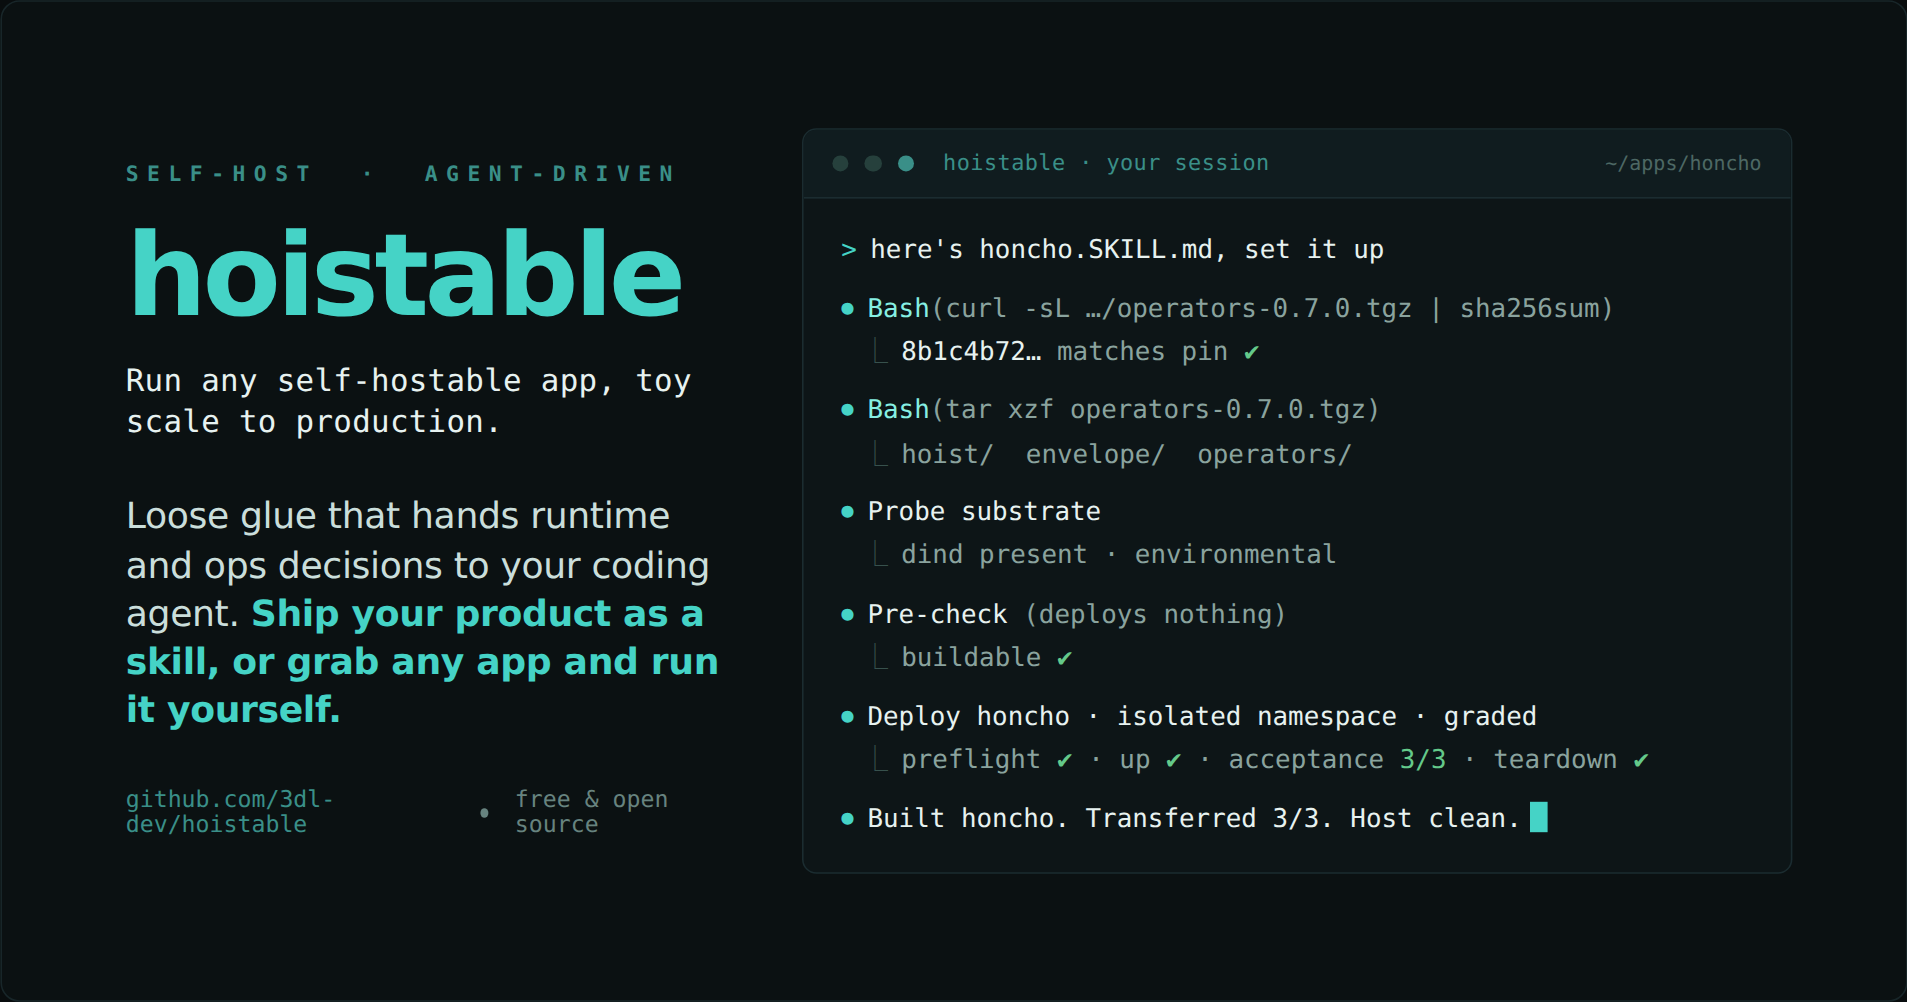
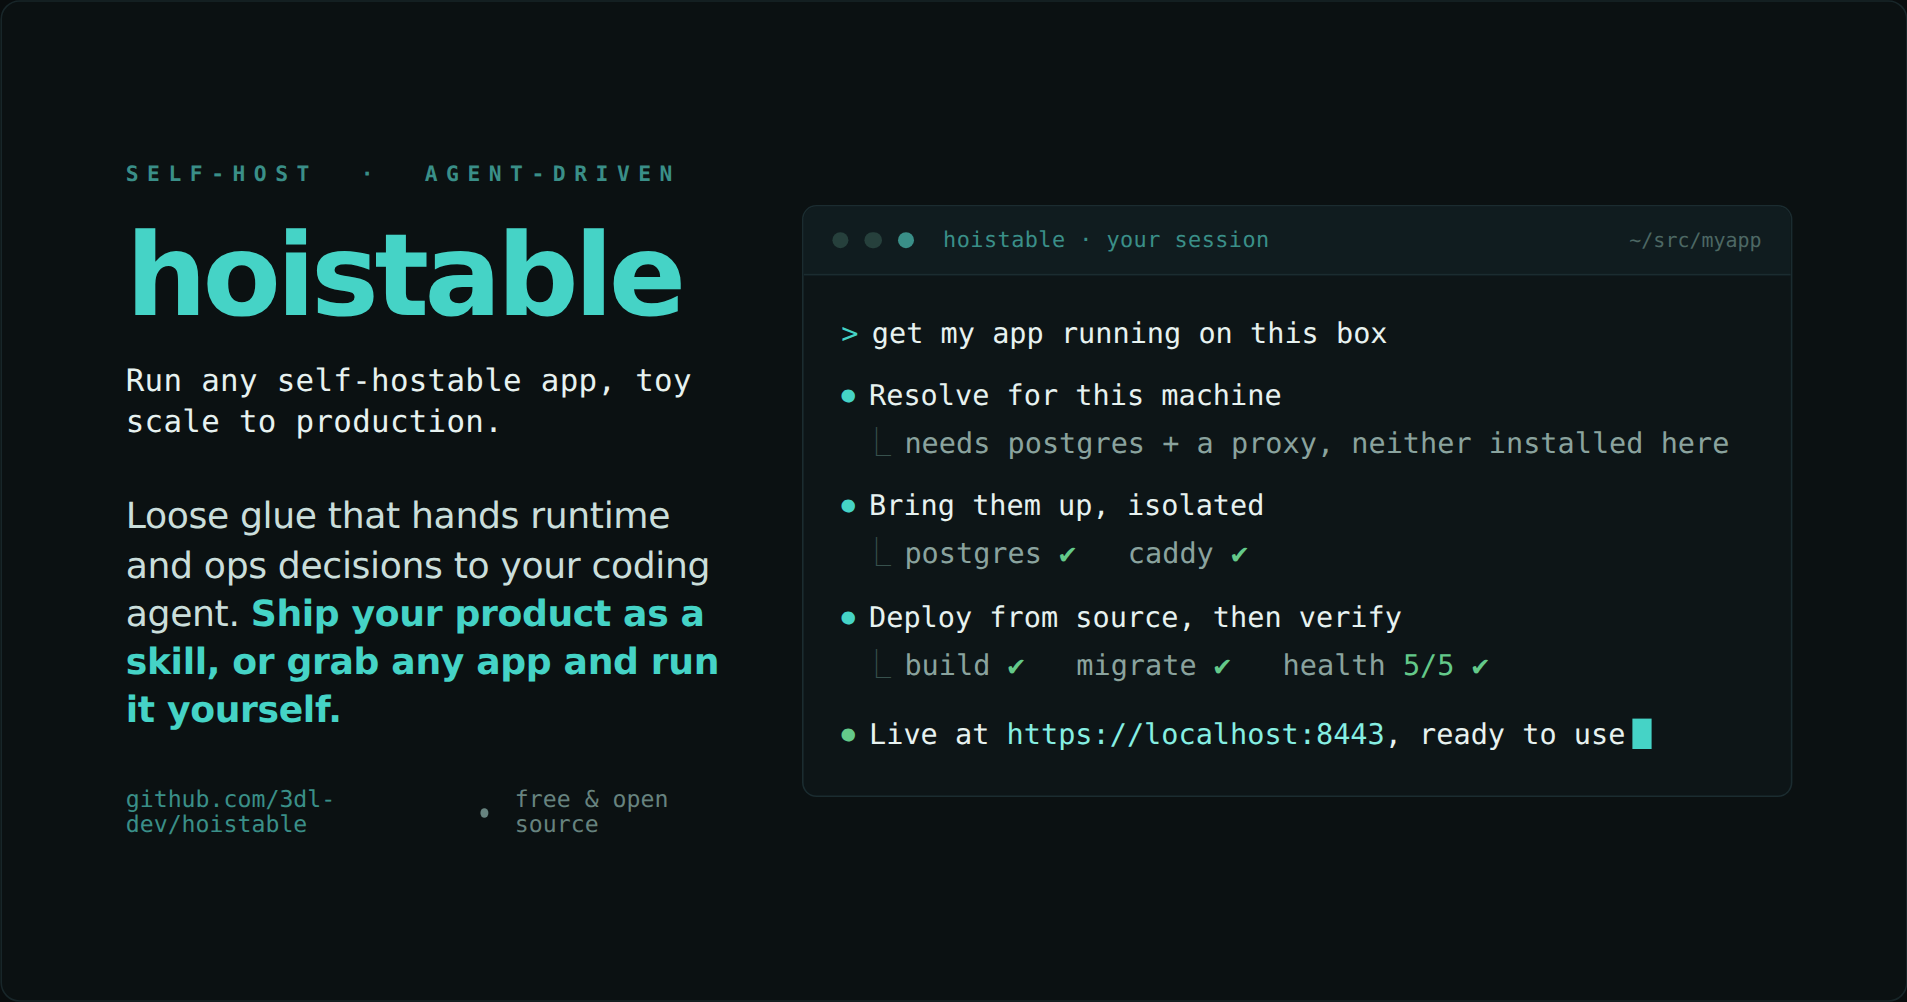
docs: panel ends on the objective (app live + usable), unbranded, wow-legible
- drop honcho: no unfurling a third-party trademark, and no 'prebuilt app' undersell
- stop ending on teardown (that's the grade loop's ending, not the user's objective);
  end on the app live and ready to use, which is the point
- recast at the altitude a viewer reads: resolve what this machine needs, bring up the
  missing pieces, deploy from source, verify, live. real actions, not sha/tar plumbing
- 166KB, no em-dashes, no third-party names

diff --git a/docs/hoistable-hero.html b/docs/hoistable-hero.html
@@ -66,7 +66,7 @@
   .bar .who{margin-left:.6cqw;font-size:1.15cqw;color:var(--teal-dim);letter-spacing:.02em}
   .bar .stat{margin-left:auto;font-size:1.05cqw;color:#4d6864}
 
-  .body{padding:1.7cqw 2cqw 1.8cqw; font-size:1.36cqw; line-height:1.48}
+  .body{padding:2cqw 2cqw 2cqw; font-size:1.5cqw; line-height:1.5}
   .q{color:var(--cream); margin-top:1.35cqw}
   .q:first-child{margin-top:0}
   .q .p{color:var(--teal); margin-right:.7cqw}
@@ -79,7 +79,9 @@
   .ok{color:var(--ok)}
   .warn{color:var(--warn)}
   .sha{color:var(--cream)}
-  .report{color:var(--cream); margin-top:.5cqw}
+  .win{color:var(--cream); margin-top:1.35cqw; font-weight:500}
+  .win .m{color:var(--ok); margin-right:.7cqw; font-weight:400}
+  .win .url{color:var(--teal-bright)}
   .cur{
     display:inline-block;width:.95cqw;height:1.55cqw;vertical-align:-.25cqw;
     background:var(--teal);margin-left:.4cqw;
@@ -109,27 +111,21 @@
           <div class="bar">
             <span class="led"></span><span class="led"></span><span class="led on"></span>
             <span class="who">hoistable · your session</span>
-            <span class="stat">~/apps/honcho</span>
+            <span class="stat">~/src/myapp</span>
           </div>
           <div class="body">
-            <div class="q"><span class="p">&gt;</span>here's honcho.SKILL.md, set it up</div>
+            <div class="q"><span class="p">&gt;</span>get my app running on this box</div>
 
-            <div class="call"><span class="m">⏺</span><span class="fn">Bash</span><span class="arg">(curl -sL …/operators-0.7.0.tgz | sha256sum)</span></div>
-            <div class="res"><span class="b">⎿</span><span class="sha">8b1c4b72…</span> matches pin <span class="ok">✔</span></div>
+            <div class="call"><span class="m">⏺</span>Resolve for this machine</div>
+            <div class="res"><span class="b">⎿</span>needs postgres + a proxy, neither installed here</div>
 
-            <div class="call"><span class="m">⏺</span><span class="fn">Bash</span><span class="arg">(tar xzf operators-0.7.0.tgz)</span></div>
-            <div class="res"><span class="b">⎿</span>hoist/&nbsp; envelope/&nbsp; operators/</div>
+            <div class="call"><span class="m">⏺</span>Bring them up, isolated</div>
+            <div class="res"><span class="b">⎿</span>postgres <span class="ok">✔</span> &nbsp; caddy <span class="ok">✔</span></div>
 
-            <div class="call"><span class="m">⏺</span>Probe substrate</div>
-            <div class="res"><span class="b">⎿</span>dind present · environmental</div>
+            <div class="call"><span class="m">⏺</span>Deploy from source, then verify</div>
+            <div class="res"><span class="b">⎿</span>build <span class="ok">✔</span> &nbsp; migrate <span class="ok">✔</span> &nbsp; health <span class="ok">5/5 ✔</span></div>
 
-            <div class="call"><span class="m">⏺</span>Pre-check <span class="arg">(deploys nothing)</span></div>
-            <div class="res"><span class="b">⎿</span>buildable <span class="ok">✔</span></div>
-
-            <div class="call"><span class="m">⏺</span>Deploy honcho · isolated namespace · graded</div>
-            <div class="res"><span class="b">⎿</span>preflight <span class="ok">✔</span> · up <span class="ok">✔</span> · acceptance <span class="ok">3/3</span> · teardown <span class="ok">✔</span></div>
-
-            <div class="call" style="margin-top:1.1cqw"><span class="m">⏺</span>Built honcho. Transferred 3/3. Host clean.<span class="cur"></span></div>
+            <div class="win"><span class="m">⏺</span>Live at <span class="url">https://localhost:8443</span>, ready to use<span class="cur"></span></div>
           </div>
         </div>
       </div>
